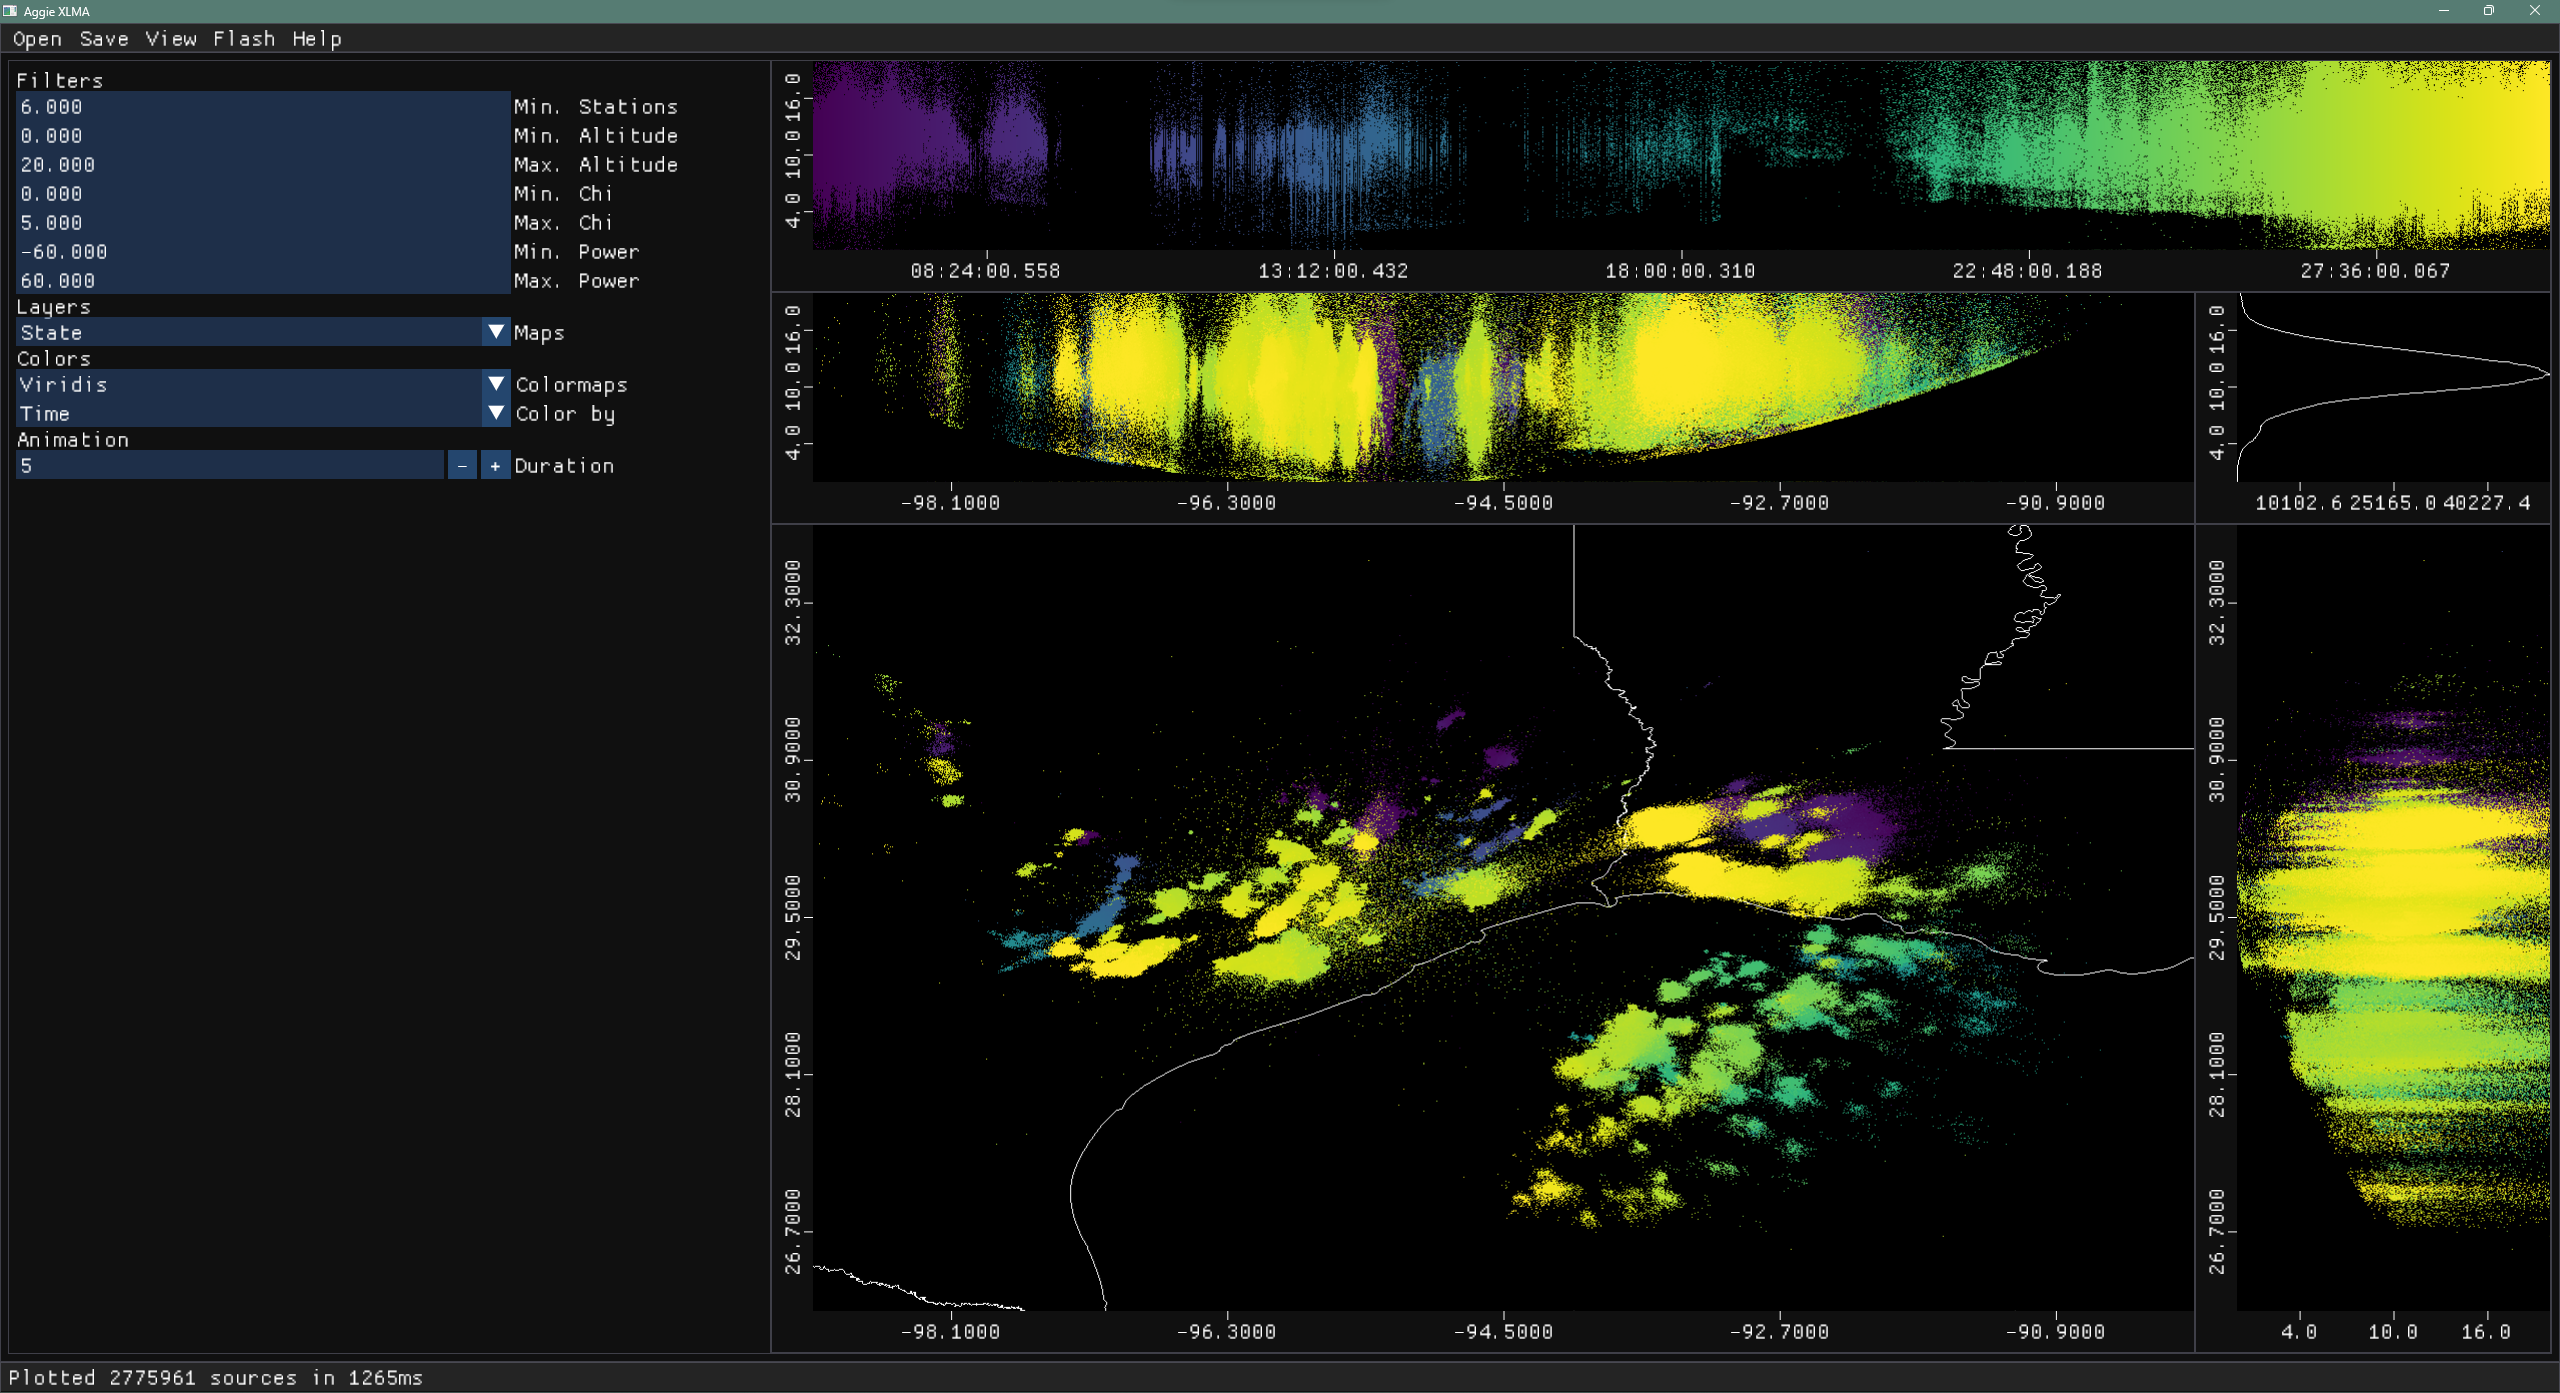
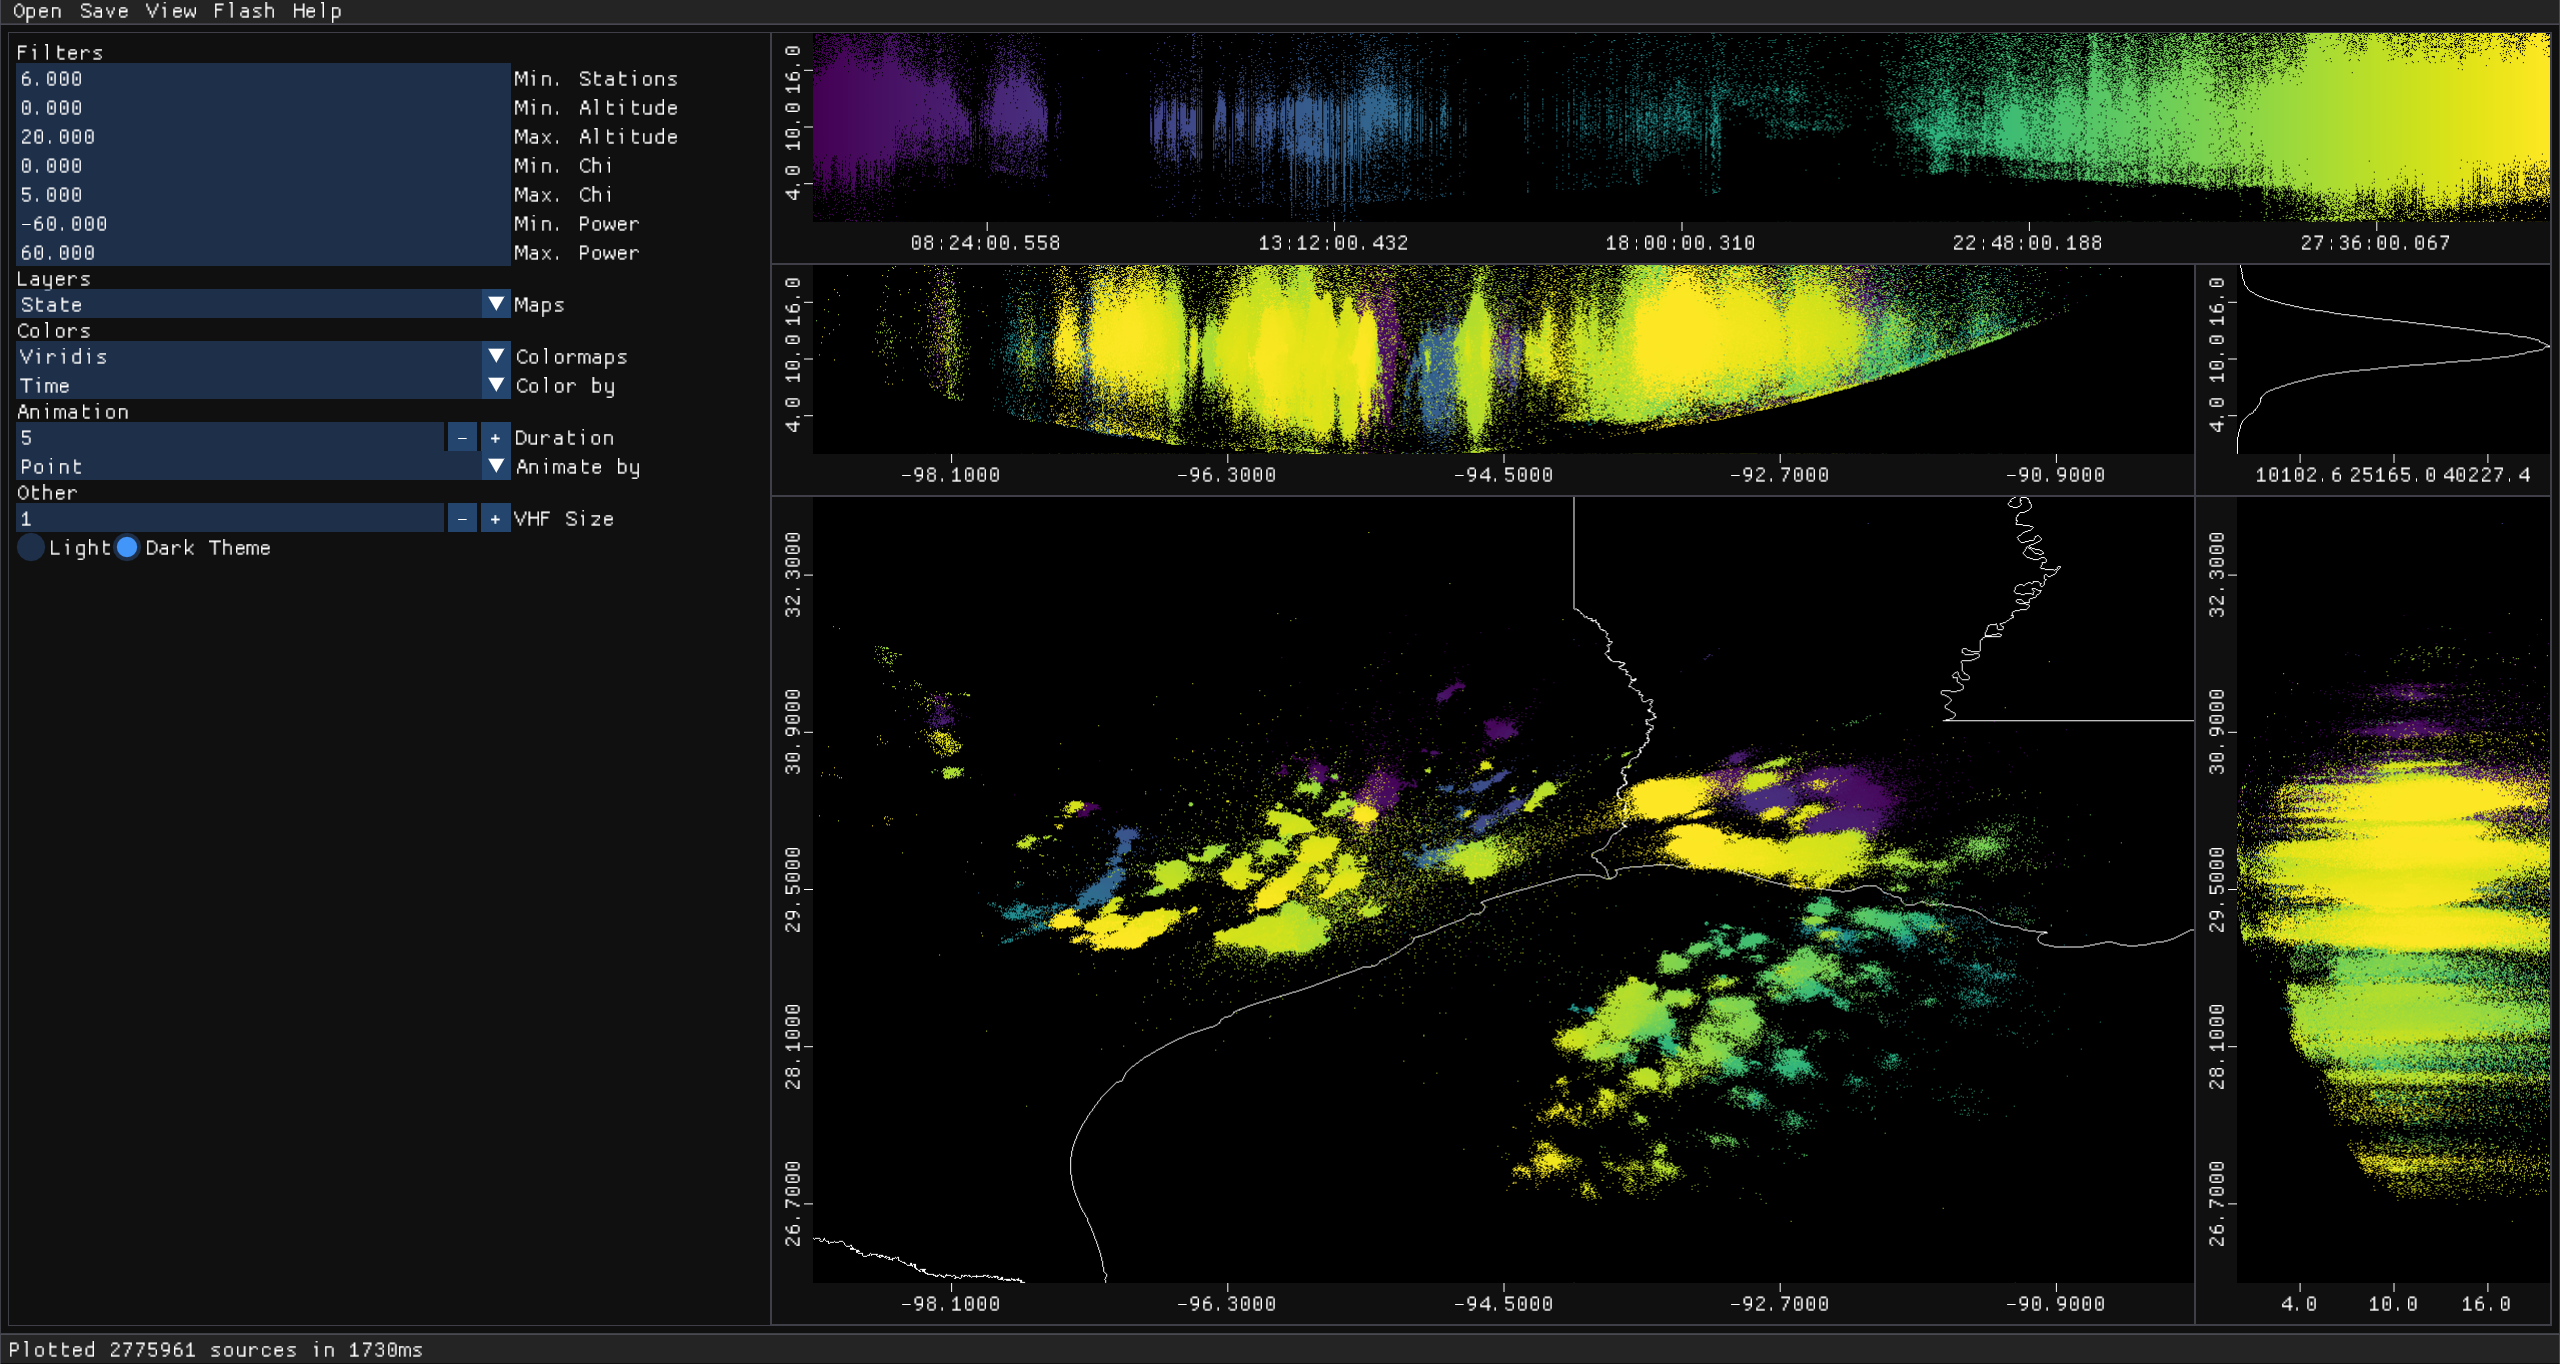
updated screenshot and added attribution for git.h

diff --git a/README.md b/README.md
@@ -11,3 +11,5 @@ If you would like to contribute please reach out to [Dr.Timothy Logan](https://a
 
 ## References:
 McCaul , E. W., S. J. Goodman, K. M. LaCasse, and D. J. Cecil, 2009: Forecasting Lightning Threat Using Cloud-Resolving Model Simulations. Wea. Forecasting, 24, 709–729, https://doi.org/10.1175/2008WAF2222152.1.
+
+gif.h: Obtained from [here](https://github.com/charlietangora/gif-h)
